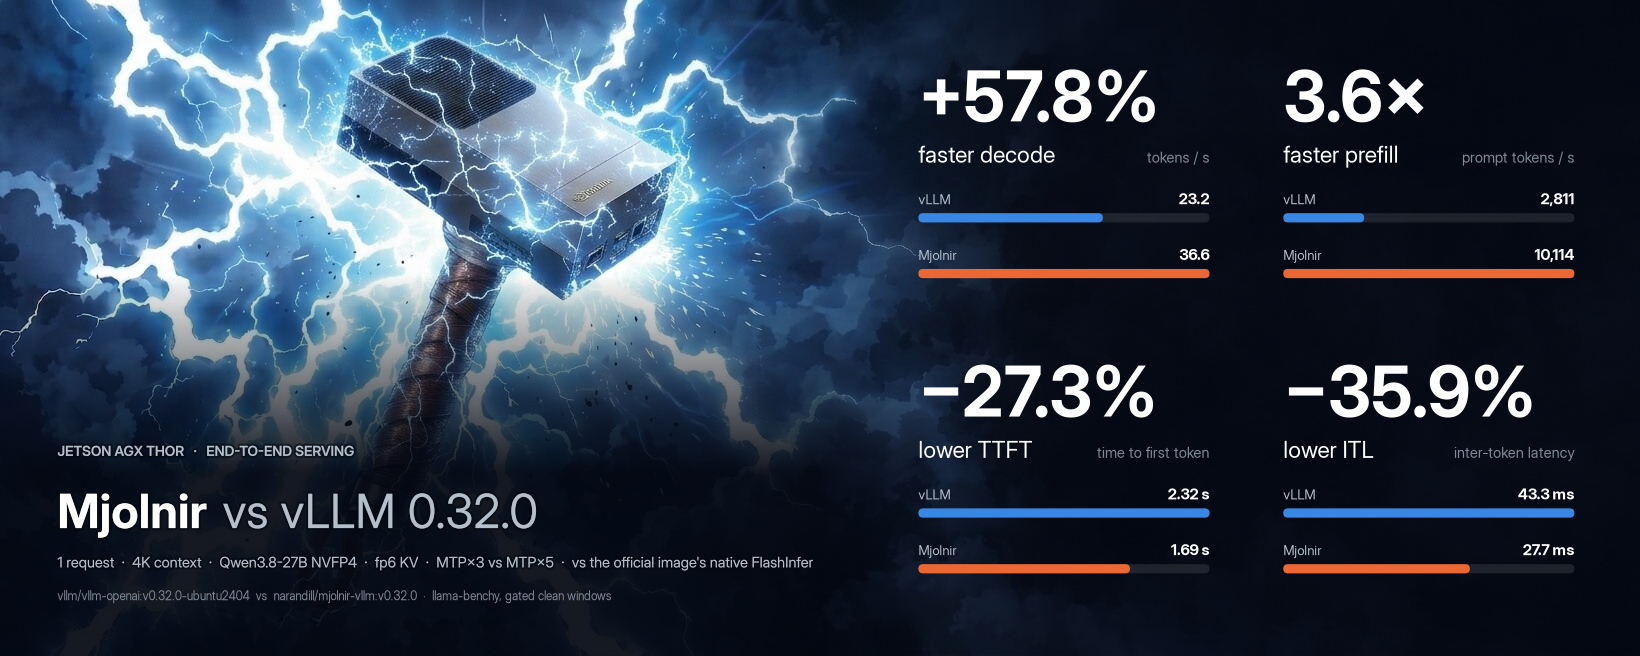
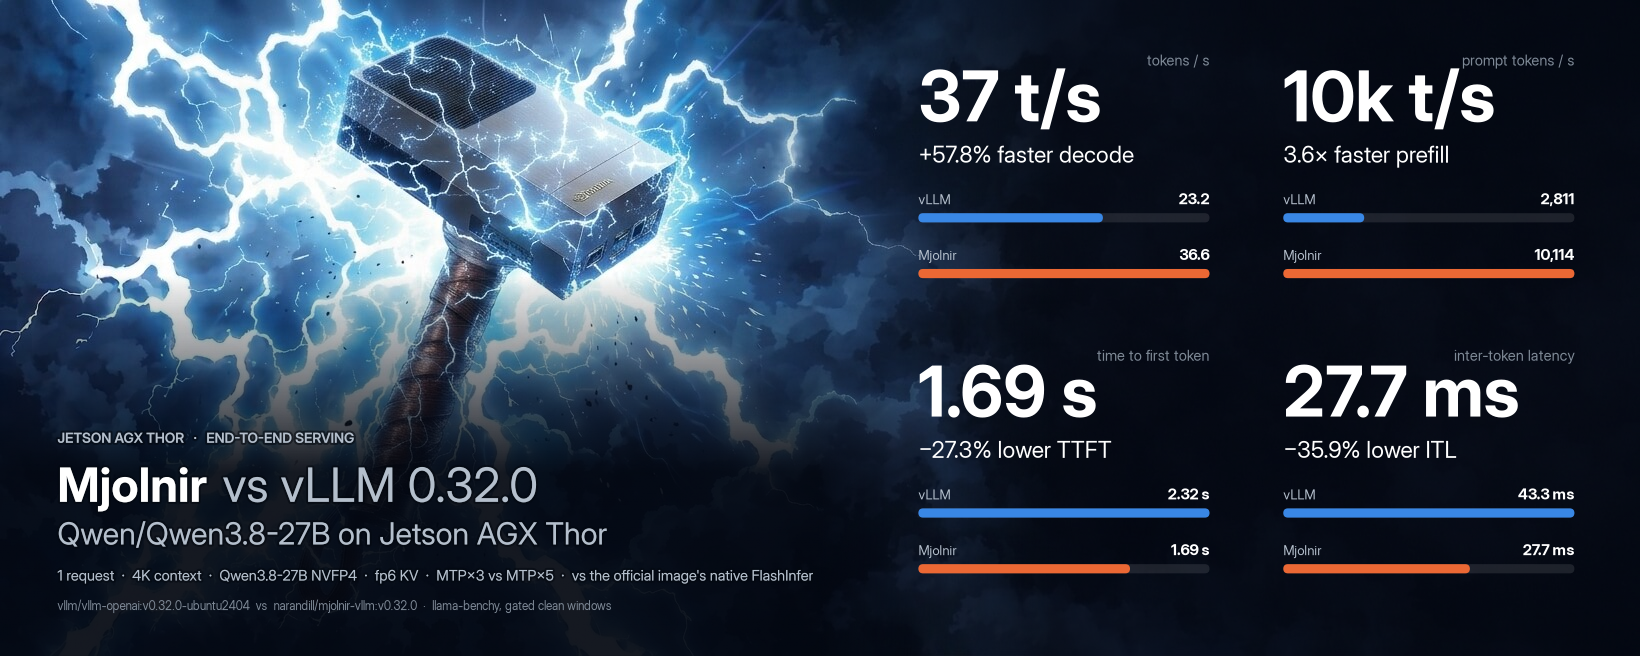
plot: opening infographic - absolute 4K C=1 values, change in subtitles
BIG line = the Mjolnir-side absolute value (big_value: int t/s, k at
>=10k, s at >=1 s else ms, ms 1dp) and the subtitle carries the change +
direction; one C=1 row at the smallest shared context fills all four
panels (e2e.infographic_row, pinned by the one new selector test); the
left side gains the model + platform line at 22pt. Regenerated
assets/opening-infographic.png; zero hand-typed numbers.

diff --git a/src/mjolnir-cli/mjolnir_cli/charts_e2e.py b/src/mjolnir-cli/mjolnir_cli/charts_e2e.py
@@ -8,6 +8,7 @@ from collections.abc import Callable
 from mjolnir_cli import theme
 from mjolnir_cli.config import DEFAULT_MODEL, DEFAULT_PLATFORM, RepoLayout, model_of, model_short
 from mjolnir_cli.history import load_records
+from mjolnir_cli.platforms import REGISTRY, platform_of
 from mjolnir_cli.theme import Mode
 
 from mjolnir_cli.charts_base import (
@@ -198,6 +199,16 @@ def _rgba(hex_color: str) -> tuple[int, int, int, int]:
     return int(h[0:2], 16), int(h[2:4], 16), int(h[4:6], 16), 255
 
 
+def big_value(key: str, v: float) -> str:
+    """The BIG absolute value of a stat block: int t/s with ``k`` scaling at
+    ≥10k (decode, prefill); seconds at ≥1 s else ms (TTFT); ms (ITL)."""
+    if key in ("tg_tps", "pp_tps"):
+        return f"{v / 1000:.0f}k t/s" if v >= 10_000 else f"{v:.0f} t/s"
+    if key == "ttft_ms":
+        return f"{v / 1000:.2f} s" if v >= 1000 else f"{v:.0f} ms"
+    return f"{v:.1f} ms"
+
+
 def render_hero(layout: RepoLayout) -> Path | None:
     """``assets/hero.png`` — the README header: ``assets/hero-background.png``
     with the slogan (two lines, centred under the MJOLNIR logotype) and a row
@@ -277,13 +288,15 @@ def render_infographic(layout: RepoLayout) -> Path | None:
 
     ``assets/background.jpeg`` (the Thor-as-Mjolnir art on the left) stays
     untouched. Four stat blocks fill the dark right half — decode, prefill,
-    time to first token, inter-token latency — each with the gain as the big
-    number and the two measured values as bars; the claim, the scenario and
-    the provenance sit bottom-left, under the hammer (a bottom scrim keeps
-    them readable over the handle). Every number comes from the latest
-    history pair (:func:`mjolnir_cli.e2e.latest_pair`): native FlashInfer on
-    the official vLLM image vs the Mjolnir backend on the Mjolnir image, one
-    request at the longest context both measured."""
+    time to first token, inter-token latency — each with the Mjolnir-side
+    absolute value as the big number and the change + direction as the
+    subtitle, over the two measured values as bars; the claim, the model +
+    platform, the scenario and the provenance sit bottom-left, under the
+    hammer (a bottom scrim keeps them readable over the handle). Every number
+    comes from the latest history pair (:func:`mjolnir_cli.e2e.latest_pair`)
+    — one request at the smallest context both sides measured
+    (:func:`mjolnir_cli.e2e.infographic_row`) — native FlashInfer on the
+    official vLLM image vs the Mjolnir backend on the Mjolnir image."""
     import numpy as np
     from matplotlib.patches import FancyBboxPatch
 
@@ -294,7 +307,7 @@ def render_infographic(layout: RepoLayout) -> Path | None:
     off, mj = e2e.latest_pair(layout.history_file)
     if not off or not mj:
         return None
-    h = e2e.hero(off, mj)
+    h = e2e.infographic_row(off, mj)
     bg_path = layout.repo_root / "assets" / "background.jpeg"
     if not h or not bg_path.exists():
         print("[mjolnir] no official-vLLM / Mjolnir e2e pair in history — infographic skipped (run: mjolnir bench e2e)")
@@ -336,14 +349,14 @@ def render_infographic(layout: RepoLayout) -> Path | None:
             xf * W, yf * H, text, fontsize=size, color=color, weight=weight, ha=ha, family=disp, zorder=6, **kw
         )
 
-    # ── bottom-left: claim, scenario, provenance ──────────────────────────
+    # ── bottom-left: claim, model + platform, scenario, provenance ─────────
     BL, BY = 0.035, 0.05  # left margin; lift of the whole block off the bottom edge
-    T(BL, BY + 0.255, "JETSON AGX THOR   ·   END-TO-END SERVING", 10, dim, "semibold", path_effects=halo)
-    title = T(BL, BY + 0.145, "Mjolnir", 34, white, "bold", path_effects=halo)
+    T(BL, BY + 0.275, "JETSON AGX THOR   ·   END-TO-END SERVING", 10, dim, "semibold", path_effects=halo)
+    title = T(BL, BY + 0.185, "Mjolnir", 34, white, "bold", path_effects=halo)
     x_after = title.get_window_extent(renderer=fig.canvas.get_renderer()).x1
     ax.text(
         x_after + 14,
-        (BY + 0.145) * H,
+        (BY + 0.185) * H,
         f"vs vLLM {ver}",
         fontsize=34,
         color=dim,
@@ -351,9 +364,11 @@ def render_infographic(layout: RepoLayout) -> Path | None:
         zorder=6,
         path_effects=halo,
     )
+    plat = REGISTRY.get(platform_of(mj))
+    T(BL, BY + 0.120, f"{mj.get('model', '')} on {plat.name if plat else platform_of(mj)}", 22, dim, path_effects=halo)
     T(
         BL,
-        BY + 0.085,
+        BY + 0.065,
         f"1 request  ·  {e2e.ctx_label(h['ctx'])} context  ·  {model} {quant}  ·  {kv}  ·  {e2e.spec_short(off, mj)}"
         "  ·  vs the official image's native FlashInfer",
         10.5,
@@ -362,7 +377,7 @@ def render_infographic(layout: RepoLayout) -> Path | None:
     )
     T(
         BL,
-        BY + 0.035,
+        BY + 0.020,
         f"{off.get('image', '')}  vs  {mj.get('image', '')}  ·  llama-benchy, gated clean windows",
         8.5,
         faint,
@@ -388,16 +403,15 @@ def render_infographic(layout: RepoLayout) -> Path | None:
             continue
         x0 = L + (i % 2) * (cw + gap)
         y0 = tops[i // 2]
-        # throughput: the change in tokens/s, a doubling or more as a multiple
-        # (+200% reads "3×"); latency: the change in ms (−27% = 27% fewer ms —
-        # a reduction, never the reciprocal speedup)
-        if key in ("ttft_ms", "itl_ms"):
-            big = e2e.pct(-gain).replace(".0%", "%")
-        else:
-            big = multiple(gain) if gain >= 100 else e2e.pct(gain)
-        T(x0, y0 - 0.115, big, 50, white, "bold")
-        T(x0, y0 - 0.178, better if gain >= 0 else worse, 16.5, white)
-        T(x0 + cw, y0 - 0.178, unit, 10.5, faint, ha="right")
+        # the BIG number is the Mjolnir-side absolute value; the subtitle
+        # carries the change + direction. Throughput: the change in tokens/s,
+        # a doubling or more as a multiple (+200% reads "3×"); latency: the
+        # change in ms (−27% = 27% fewer ms — a reduction, never the
+        # reciprocal speedup)
+        change = e2e.pct(-gain) if key in ("ttft_ms", "itl_ms") else multiple(gain) if gain >= 100 else e2e.pct(gain)
+        T(x0, y0 - 0.115, big_value(key, vb), 50, white, "bold")
+        T(x0 + cw, y0 - 0.030, unit, 10.5, faint, ha="right")  # above the big value's caps
+        T(x0, y0 - 0.178, f"{change} {better if gain >= 0 else worse}", 16.5, white)
         X, BW = x0 * W, cw * W
         vmax = max(va, vb)
         for j, (lbl, v, col) in enumerate((("vLLM", va, c_off), ("Mjolnir", vb, c_mj))):

diff --git a/tests/cli/test_e2e.py b/tests/cli/test_e2e.py
@@ -48,6 +48,51 @@ def test_pair_prefers_mjolnir_backend_and_latest(tmp_path):
     assert round(hero["itl_ms"][1], 3) == round(1000 / 30, 3)
 
 
+def test_infographic_row_is_the_one_smallest_measured_c1_context(tmp_path):
+    """The infographic reads ONE row — C=1 at the smallest context both sides
+    measured — for all four metrics: never the best-gain cell, never C=2 or
+    the ctx=0 decode-only cell."""
+    h = tmp_path / "history.jsonl"
+    rows = [
+        _rec(
+            "vllm/vllm-openai:v0.32.0",
+            "NVFP4",
+            1,
+            [
+                _cell(1, 0, 20, 0, 800),
+                _cell(1, 4096, 18, 2000, 4000),
+                _cell(1, 8192, 15, 1900, 5000),  # higher decode gain than 4K — still not the row
+                _cell(2, 8192, 90, 9000, 1000),
+            ],
+        ),
+        _rec(
+            "narandill/mjolnir-vllm:v0.32.0",
+            "NVFP4_MJOLNIR",
+            2,
+            [
+                _cell(1, 0, 30, 0, 600),
+                _cell(1, 4096, 25, 5000, 3000),
+                _cell(1, 8192, 25, 6000, 3600),
+                _cell(2, 8192, 99, 9900, 900),
+            ],
+        ),
+    ]
+    h.write_text("".join(json.dumps(r) + "\n" for r in rows))
+    off, mj = e2e.latest_pair(h, "NVFP4_MJOLNIR")
+    assert off and mj
+    row = e2e.infographic_row(off, mj)
+    assert row
+    assert row["ctx"] == 4096
+    assert row["tg_tps"][:2] == (18.0, 25.0)  # values from the 4K row, not 8K or ctx=0
+    assert round(row["tg_tps"][2], 1) == round((25 / 18 - 1) * 100, 1)
+    assert row["pp_tps"][:2] == (2000.0, 5000.0)
+    assert round(row["pp_tps"][2], 1) == 150.0
+    assert round(row["ttft_ms"][1], 3) == 3000.0  # TTFT falls back to ttfr like hero
+    assert round(row["ttft_ms"][2], 1) == 25.0
+    assert round(row["itl_ms"][1], 3) == round(1000 / 25, 3)  # ITL falls back to 1000/tg at c=1
+    assert round(row["itl_ms"][2], 1) == 28.0
+
+
 def test_benchy_cells_carry_ttft_and_itl():
     raw = {
         "benchmarks": [

diff --git a/src/mjolnir-cli/mjolnir_cli/e2e.py b/src/mjolnir-cli/mjolnir_cli/e2e.py
@@ -264,6 +264,24 @@ def hero(off: dict, mj: dict, max_ctx: int | None = MAX_CTX) -> dict | None:
     return best
 
 
+def infographic_row(off: dict, mj: dict) -> dict | None:
+    """The opening infographic's ONE scenario row: C=1 at the smallest context
+    both sides measured (4K in the latest pair) — every panel reads that
+    single row, decode / TTFT / ITL included (no ctx=0 special-casing).
+    Same shape as :func:`hero`: ``{ctx, <key>: (official, mjolnir, gain)}``;
+    ``None`` when the pair shares no C=1 context cell."""
+    for conc, ctx in shared_cells(off, mj):
+        if conc != 1 or not ctx:
+            continue
+        a, b = cell(off, 1, ctx), cell(mj, 1, ctx)
+        out: dict = {"ctx": ctx}
+        for key in ("tg_tps", "pp_tps", "ttft_ms", "itl_ms"):
+            va, vb = value(a, key), value(b, key)
+            out[key] = (va, vb, gain_pct(key, va, vb) if va and vb else None)
+        return out
+    return None
+
+
 def ctx_label(ctx: int) -> str:
     if not ctx:
         return "no ctx"
